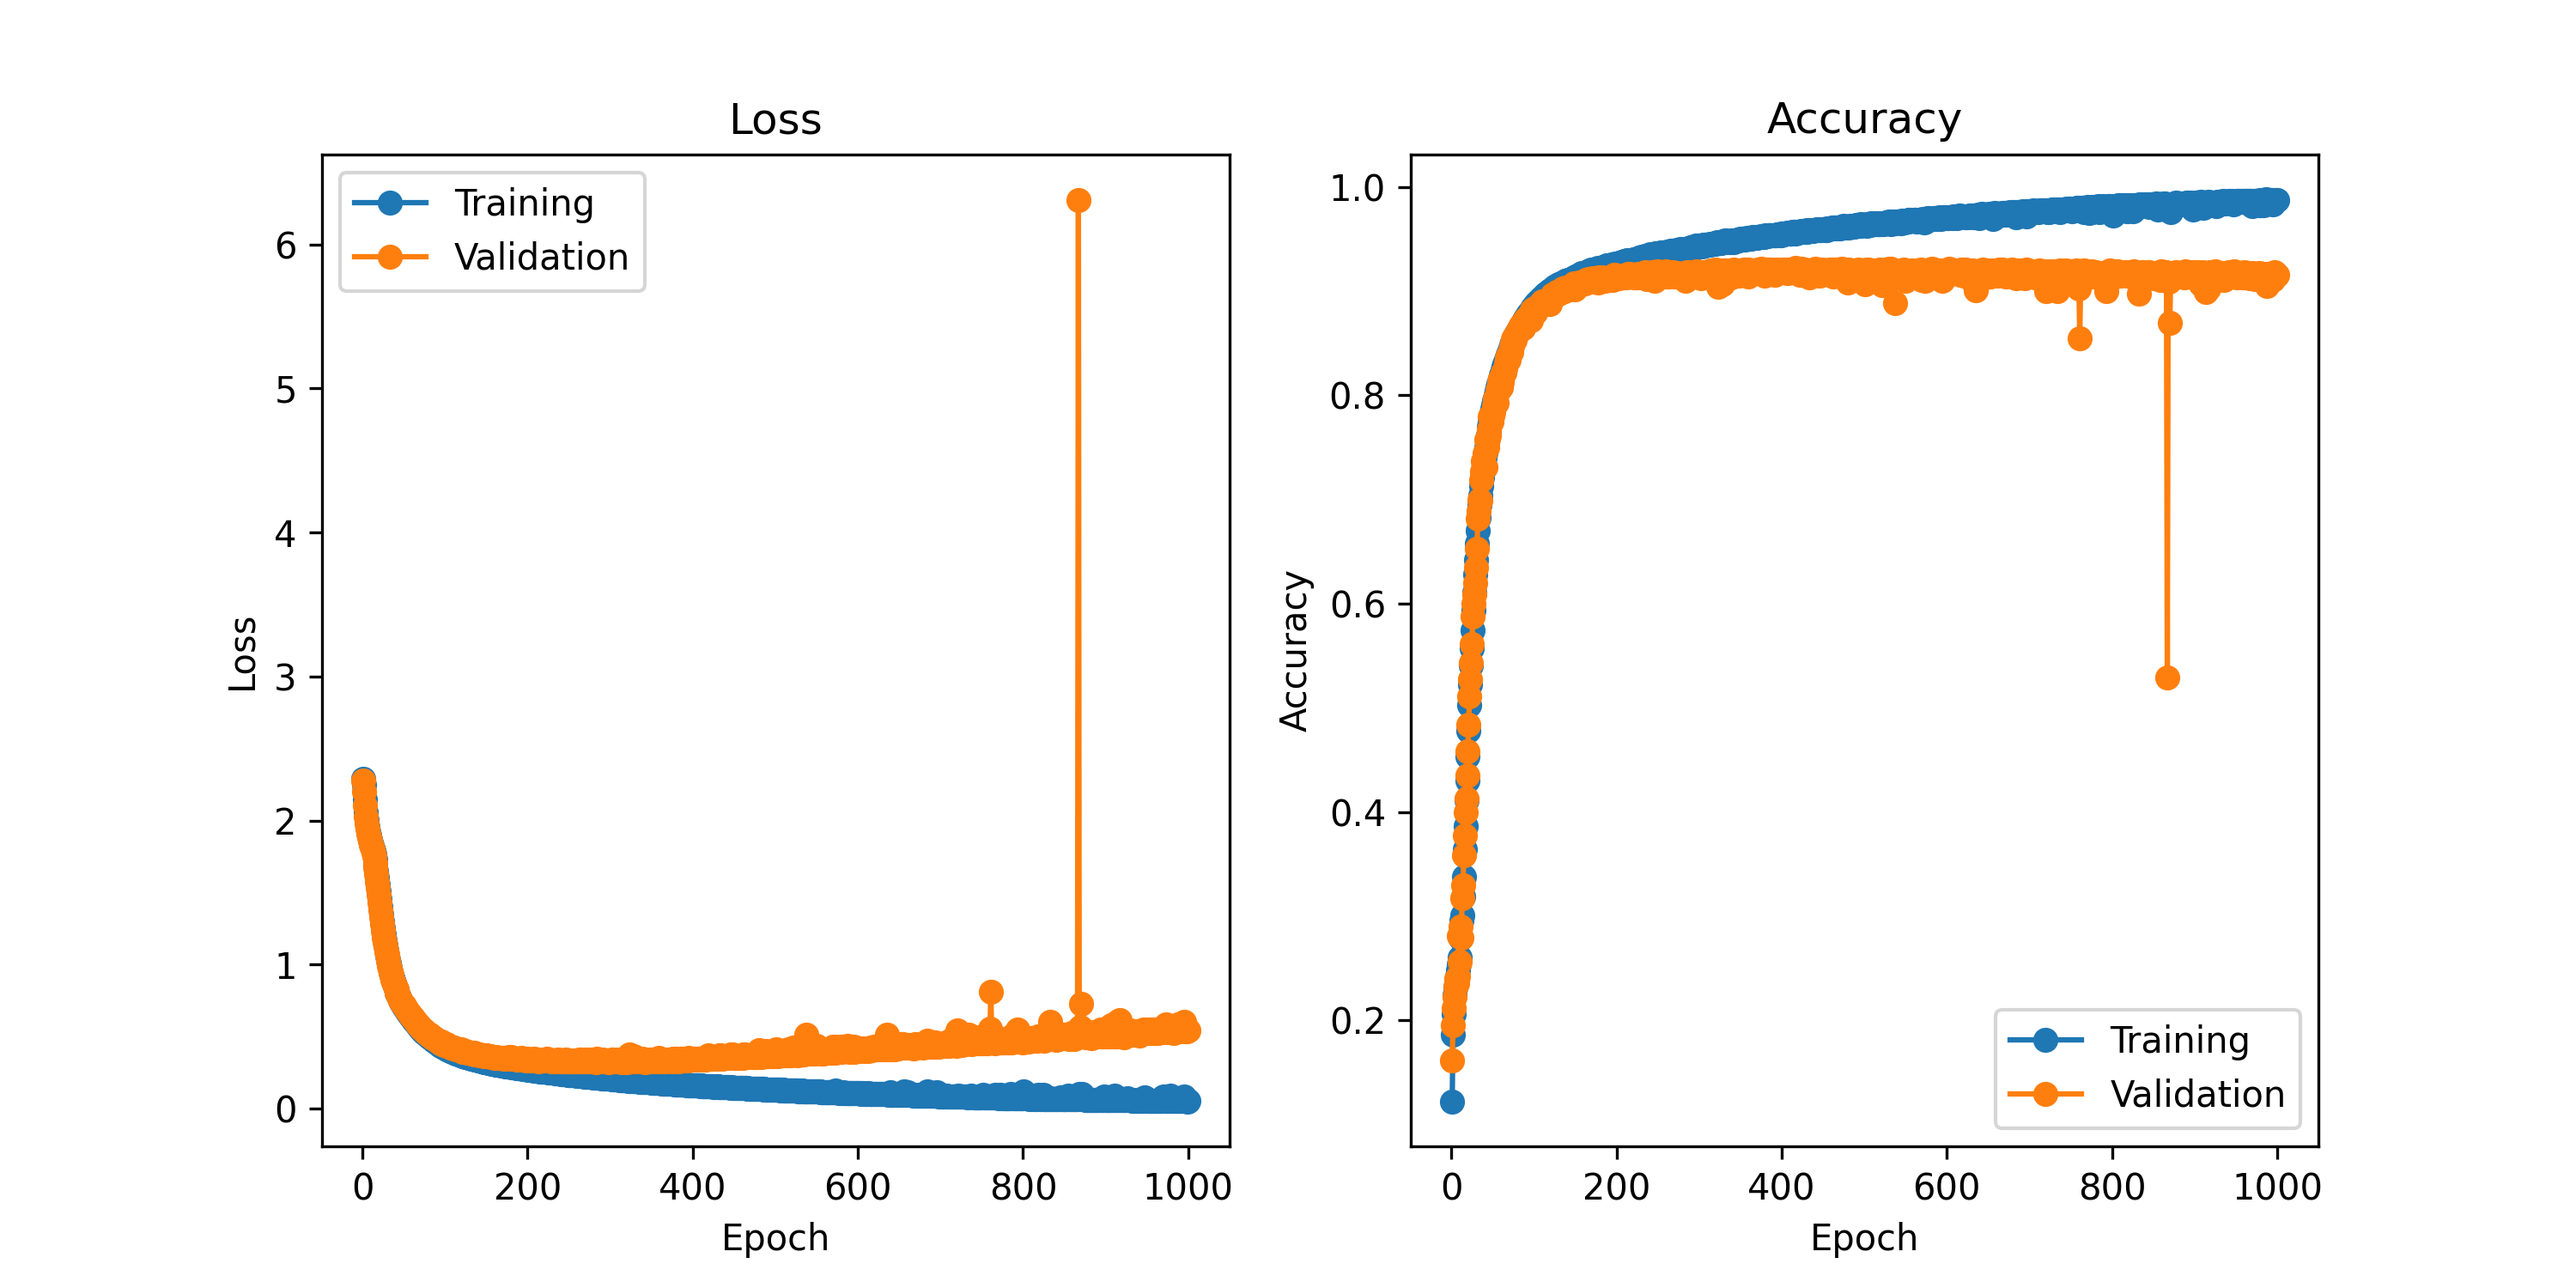
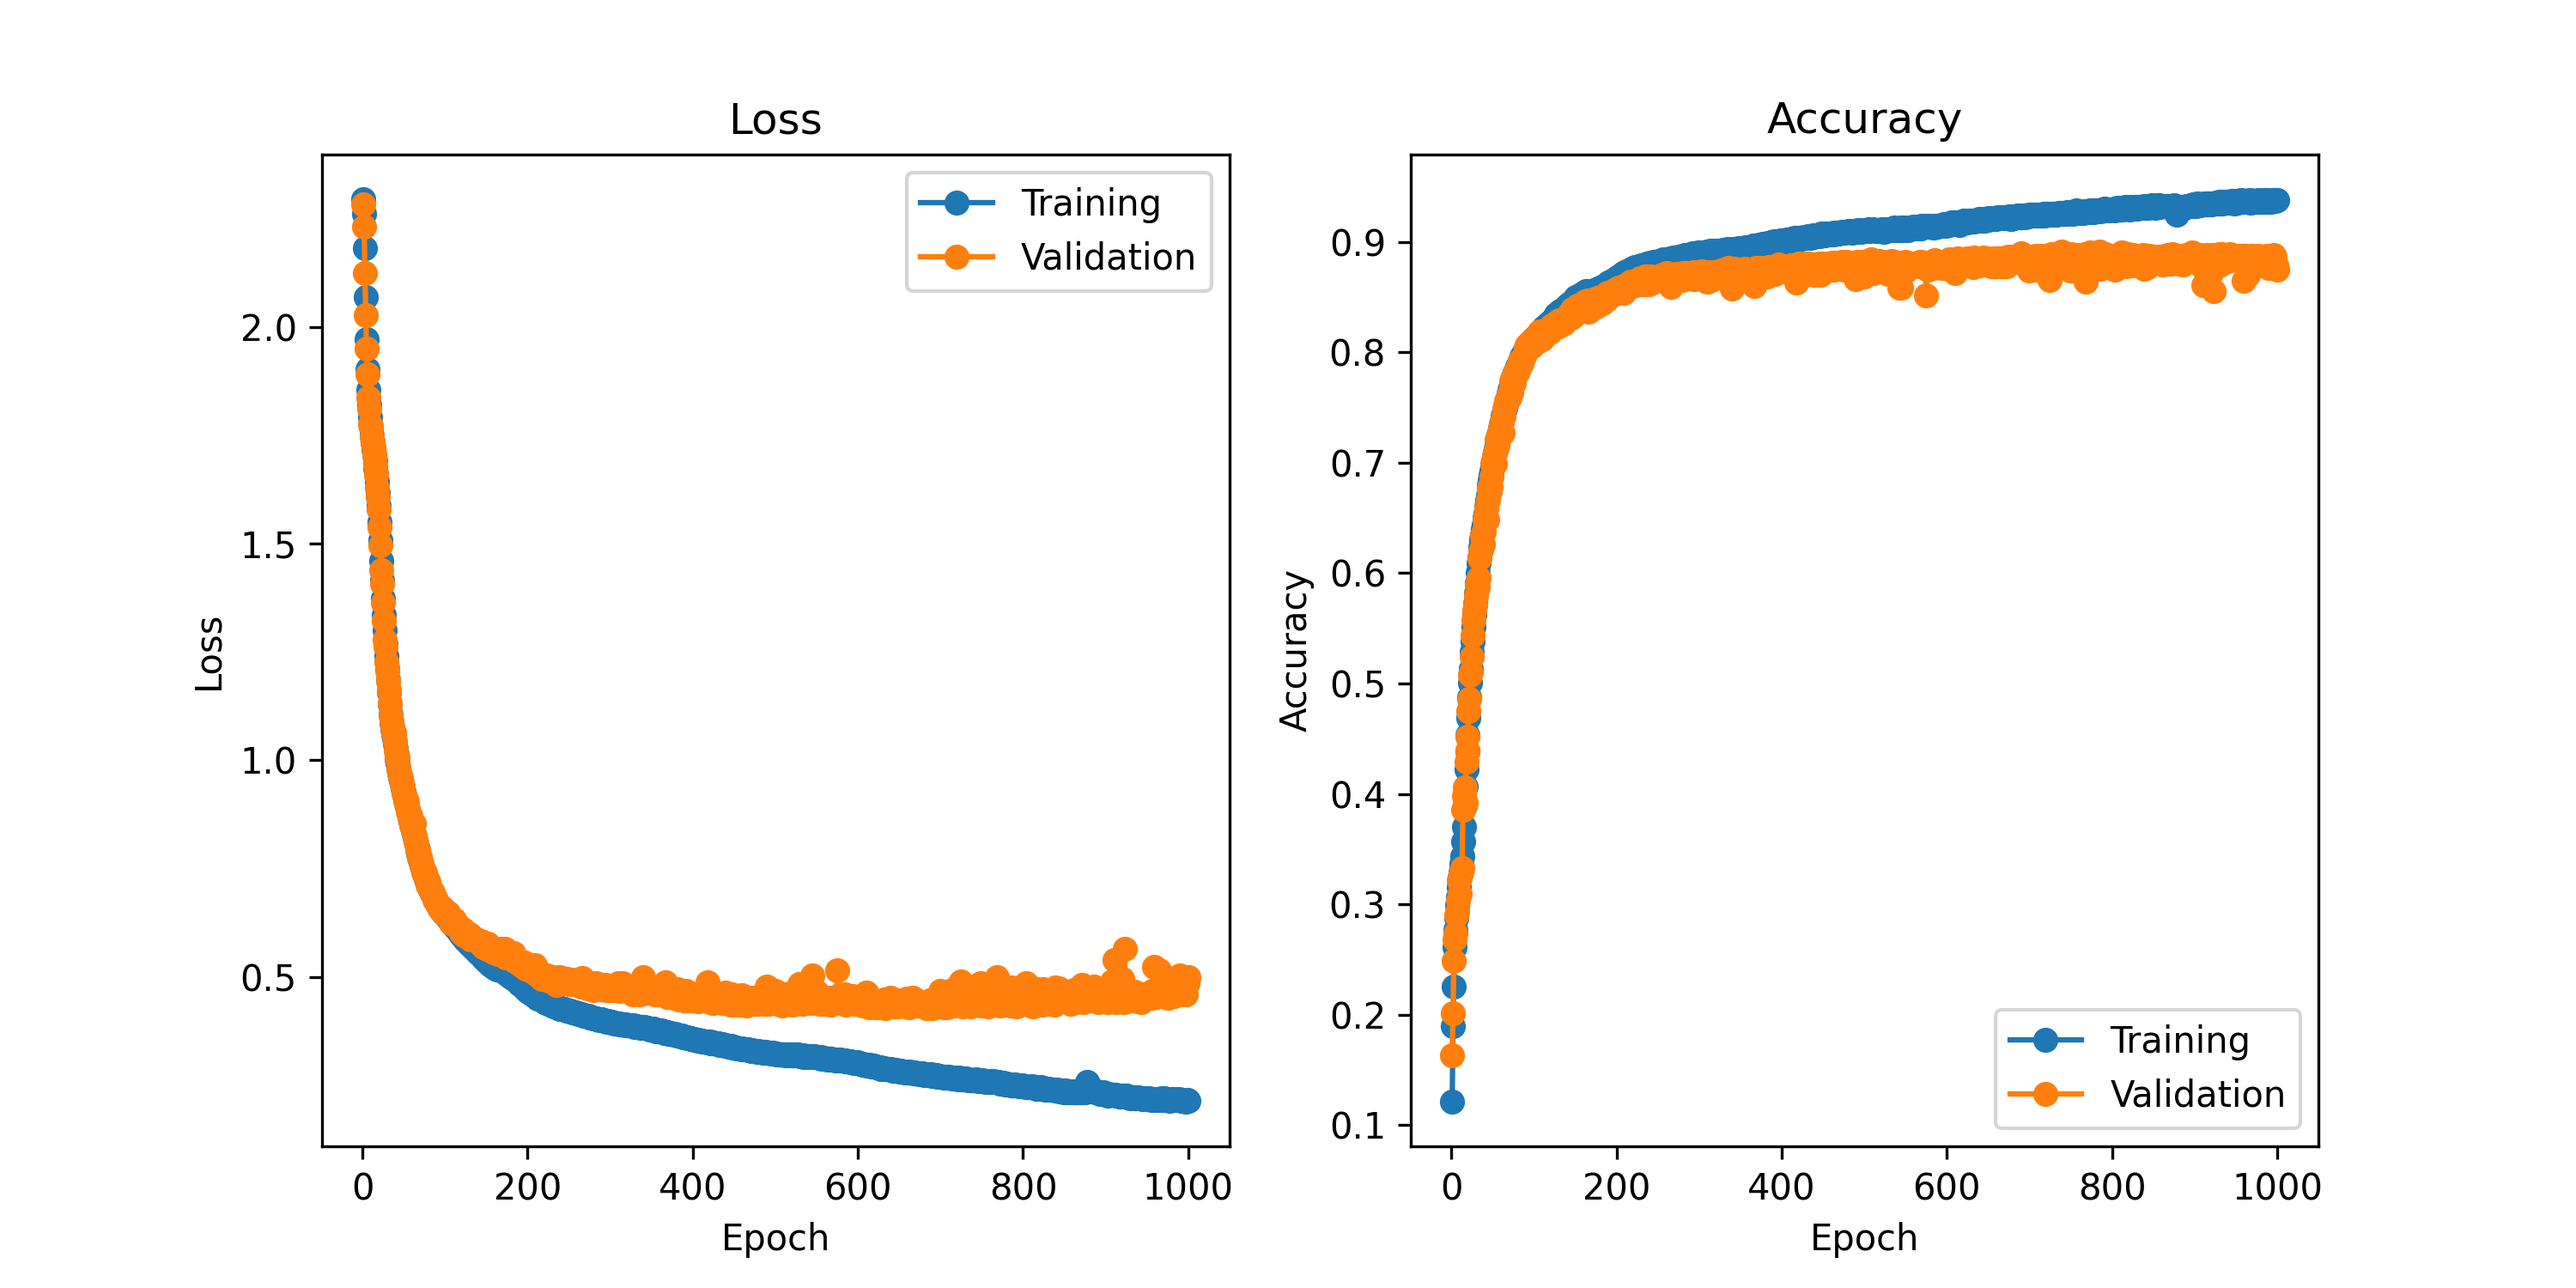
Minor corrections

diff --git a/train_mnist.py b/train_mnist.py
@@ -21,8 +21,11 @@ def main():
 
 
 def create_network(checkpoint_path):
+    ###Utilisation de la couche de la normalisation de lots
     layers = [FullyConnectedLayer(784,128), BatchNormalization(128), ReLU(), FullyConnectedLayer(128,32), BatchNormalization(32), ReLU(), FullyConnectedLayer(32,10)]
+    ###Sans l'utilisation de la couche de la normalisation de lots
     #layers = [FullyConnectedLayer(784, 128), ReLU(), FullyConnectedLayer(128, 32), ReLU(), FullyConnectedLayer(32, 10)]
+
     network = Network(layers)
     if checkpoint_path is not None:
         network.load(checkpoint_path)
